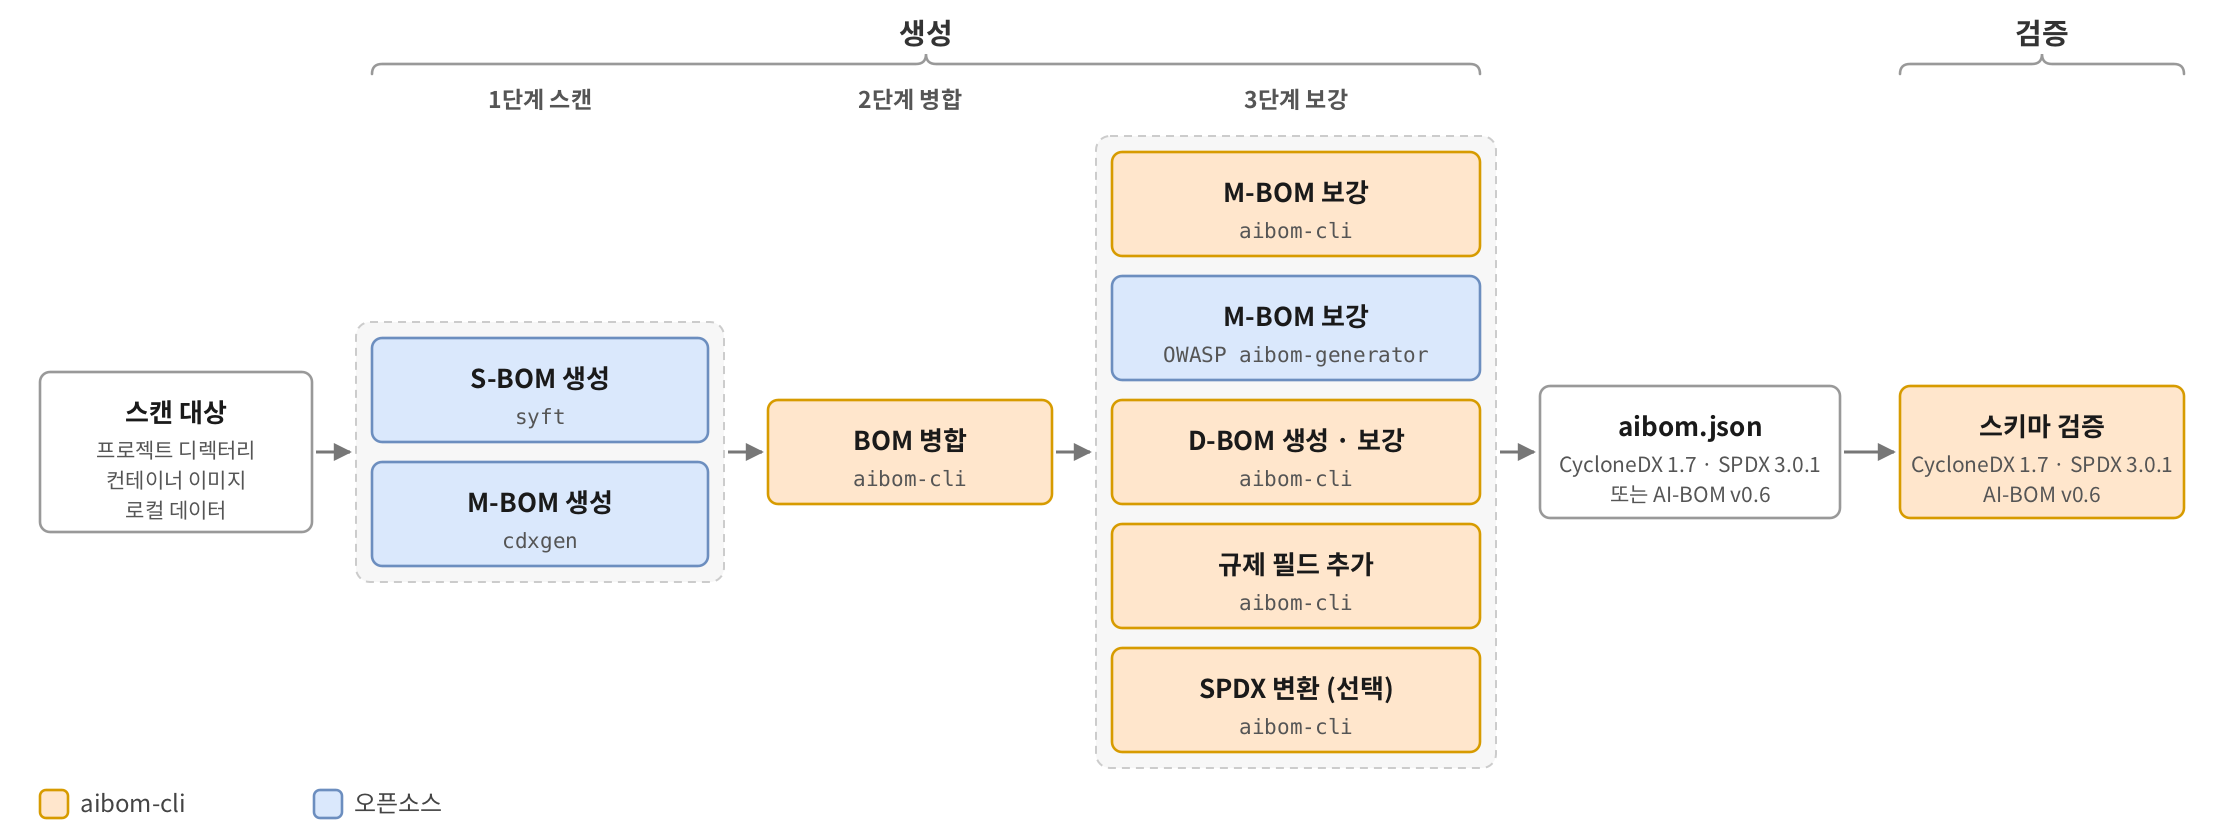
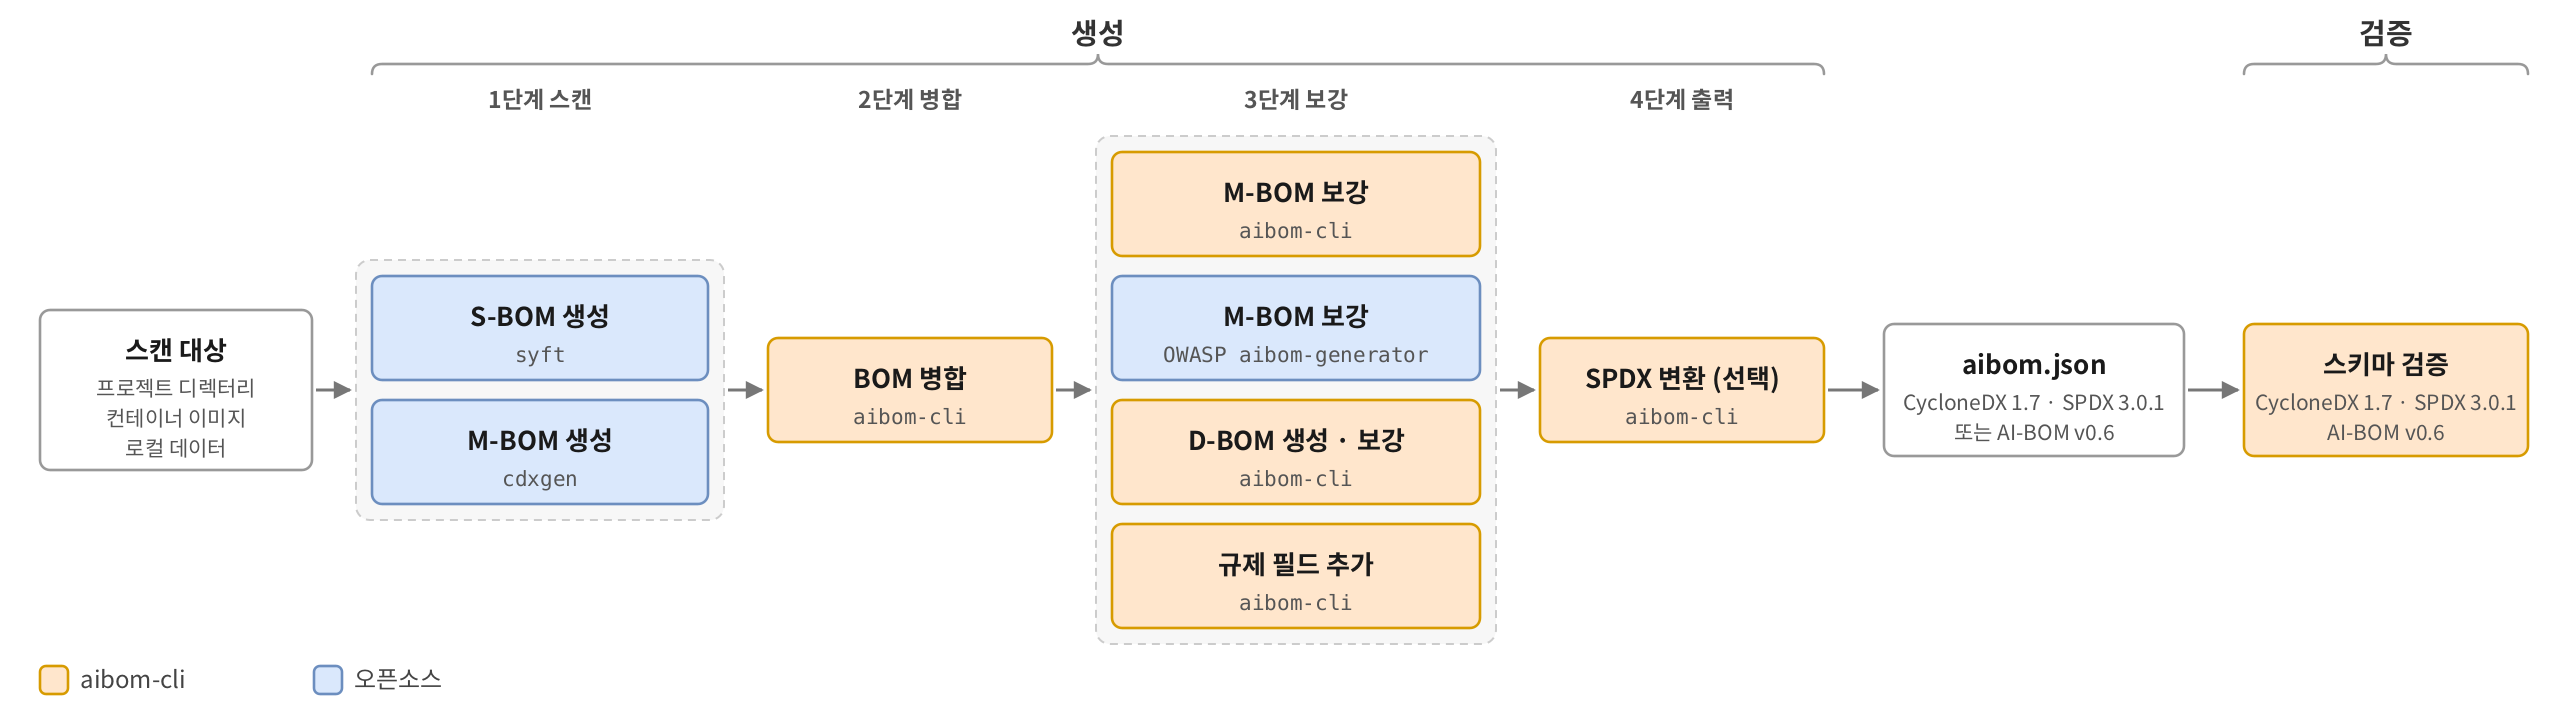
docs: move the optional SPDX conversion into its own output stage and group the step descriptions by stage

diff --git a/docs/about.md b/docs/about.md
@@ -11,6 +11,8 @@ aibom-cli 는 검증된 오픈소스 도구가 찾은 패키지와 모델을 정
 
 각 도구가 스캔 대상에서 무엇을 읽는지는 [수집 항목](guides/collected-items.md)에 있다.
 
+### 1. 스캔
+
 - **S-BOM 생성 (syft)**: 패키지 매니페스트와 설치된 패키지에서 소프트웨어 컴포넌트를 찾는다.  
   `SYFT_COMPLIANCE_MISSING_VERSION=keep syft <target> --select-catalogers -ai -o cyclonedx-json@1.7`
     - `<target>`: 스캔 대상 (디렉터리, 컨테이너 이미지, 이미지 아카이브)
@@ -23,11 +25,19 @@ aibom-cli 는 검증된 오픈소스 도구가 찾은 패키지와 모델을 정
     - `-t ai`: AI 관련 항목(모델, 데이터셋, AI 서비스)만 찾는다
     - `--spec-version 1.7`: CycloneDX 1.7 로 낸다
     - `--no-install-deps`: 의존성을 설치하지 않고, 스캔 대상에 이미 있는 파일만 읽는다. cdxgen 은 기본으로 일부 프로젝트의 의존성을 자동 설치한다
+### 2. 병합
+
 - **BOM 병합 (aibom-cli)**: 두 도구의 결과를 다듬어 AI-BOM 문서 하나로 합친다. 문서 정보(형식, 일련번호, 생성 시각, 생성 단계)와 도구 목록을 하나로 통합하고, 두 도구가 각자 만든 루트를 스캔 대상을 나타내는 루트 컴포넌트 하나로 바꾸며, 모든 컴포넌트를 의존 관계로 그 루트에 잇는다.
+### 3. 보강
+
 - **M-BOM 보강 (aibom-cli, OWASP aibom-generator)**: cdxgen 이 담지 못한 필드를 보강한다. 로컬 모델은 aibom-cli 가 모델 파일에서, 코드에서 참조하는 허브 모델은 aibom-cli 와 OWASP aibom-generator 가 Hub API 응답에서 값을 가져온다.  
   `python -m src.cli <owner/model>`
     - `<owner/model>`: cdxgen 이 찾은 허브 모델 id
 - **D-BOM 생성 · 보강 (aibom-cli)**: 모델과 코드에서 찾은 허브 데이터셋의 컴포넌트를 만들고 [Hub API](https://huggingface.co/docs/hub/api) 와 [datasets-server](https://huggingface.co/docs/dataset-viewer) 응답으로 보강한다. 지정한 로컬 데이터는 파일을 직접 읽어 컴포넌트를 만든다.
 - **규제 필드 추가 (aibom-cli)**: EU AI Act, ISO/IEC 42001, NIST AI RMF 가 요구하는 필드를 `--spec` 에 따라 바탕 표준의 properties·확장 또는 AI-BOM v0.6 필드로 넣고, 채울 수 있는 필드 가운데 채운 수를 로그에 적는다. 두 방식은 [규제 준수](compliance/index.md)에 있다.
+### 4. 출력
+
 - **SPDX 변환 (aibom-cli, 선택)**: `--format spdx` 면 다 만든 CycloneDX 문서를 SPDX 3.0.1 JSON-LD 로 바꾼다. 값은 그대로이고 모양만 바뀐다. SPDX 에만 자리가 있는 값(학습·평가 관계, 생성·공개 시각)은 수집 단계가 메모리로 들고 가다 여기서 더한다. 무엇이 어디로 가는지는 [출력 포맷](guides/output-format.md)에 있다.
+### 5. 검증
+
 - **검증 (aibom-cli)**: 생성된 AI-BOM 을 CycloneDX 1.7, SPDX 3.0.1, AI-BOM v0.6 (CycloneDX, SPDX) 스키마로 검증한다. 형식은 문서에서 알아낸다.

diff --git a/README.md b/README.md
@@ -12,8 +12,8 @@ aibom-cli 는 디렉터리와 컨테이너 이미지를 스캔해 AI-BOM(D/M/S-B
 | 3. 보강 | M-BOM 보강                  | **aibom-cli**, OWASP aibom-generator | `python -m src.cli <owner/model>`                         |
 |         | D-BOM 보강                  | **aibom-cli**   | `aibom-cli scan --data <path>`                            |
 |         | 규제 필드 추가              | **aibom-cli**   | `aibom-cli scan --spec 1.7 \| v0.6 \| 3.0.1`               |
-|         | SPDX 변환 (선택)            | **aibom-cli**   | `aibom-cli scan --format spdx`                             |
-| 4. 검증 | CycloneDX 1.7 / SPDX 3.0.1 / AI-BOM v0.6 | **aibom-cli**   | `aibom-cli validate --spec 1.7 \| v0.6 \| 3.0.1`           |
+| 4. 출력 | SPDX 변환 (선택)            | **aibom-cli**   | `aibom-cli scan --format spdx`                             |
+| 5. 검증 | CycloneDX 1.7 / SPDX 3.0.1 / AI-BOM v0.6 | **aibom-cli**   | `aibom-cli validate --spec 1.7 \| v0.6 \| 3.0.1`           |
 
 ## 주요 기능
 
